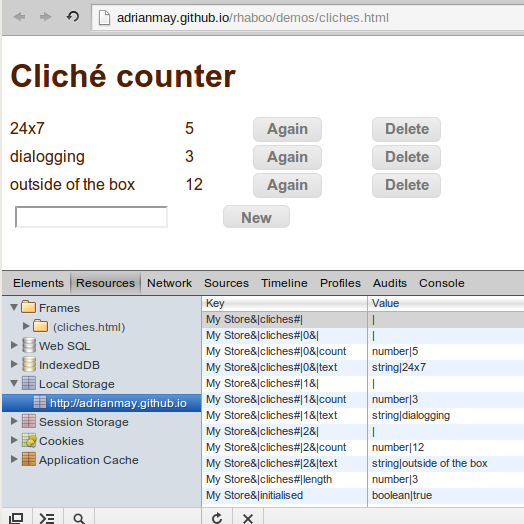
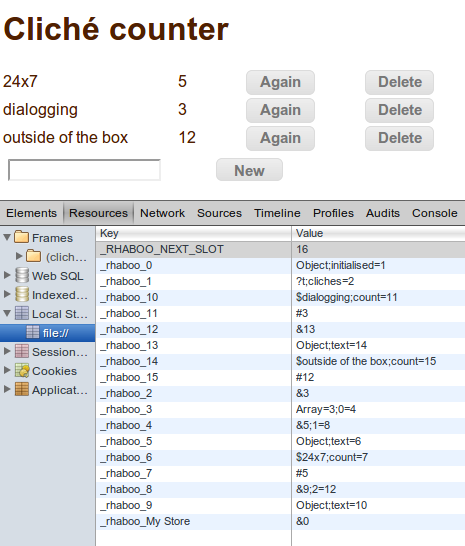
Updating web page

diff --git a/index.html b/index.html
@@ -164,7 +164,7 @@ function start() {
 &lt;script src='rhaboo.min.js'&gt;&lt;/script&gt;
 &lt;script&gt;
   <span style='color:green;'>//Open a persistent object called 'Some name'...</span>
-  <b>var store = new Rhaboo.Persistent('Some name');</b>
+  <b>var store = Rhaboo.persistent('Some name');</b>
   <span style='color:green;'>//If it has a property called 'count' then increment it, </span>
   <span style='color:green;'>//otherwise initialise it to 1...</span>
   <b>store.write('count', store.count ? store.count+1 : 1);</b>
@@ -176,7 +176,7 @@ function start() {
   &lt;p&gt;You loaded this page &lt;span id='count'&gt;&lt;/span&gt; times.
 &lt;/body&gt;
       </pre>
-      <p>So having made <code>store</code> with that constructor, it behaves just like a normal object except that wherever you'd normally write <code>store.key=val</code> you should write <code>store.write('key', val)</code> instead. Furthermore, any objects or arrays inside a persistent one also have that <code>write</code> function: 
+      <p>So having made <code>store</code> with that "constructor", it behaves just like a normal object except that wherever you'd normally write <code>store.key=val</code> you should write <code>store.write('key', val)</code> instead. Furthermore, any objects or arrays inside a persistent one also have that <code>write</code> function: 
       <br/>
       <br/>
       <pre>
@@ -233,7 +233,7 @@ store.somethingfancy.went[1].mow.write(1, 'lawn');
             <li>If you want to edit and build rhaboo then do this:<pre>
 git clone https://github.com/adrianmay/rhaboo.git
 cd rhaboo
-npm install grunt grunt-contrib-uglify grunt-browserify seedrandom ajon
+npm install grunt grunt-contrib-uglify grunt-browserify seedrandom ajon parunpar
 grunt    # be patient with this
             </pre></li>         
         </ol>
@@ -255,8 +255,8 @@ grunt    # be patient with this
           </tr>
           <tr><td colspan=4><hr/></td></tr>
           <tr>
-            <td><code>new Rhaboo.Persistent(name)</code></td>
-            <td>Constructor of root persistent object. Best performance is obtained if there's only one of these. The library looks for entries in localStorage corresponding with the passed name and loads any previously persisted data into the returned object. If no data is found, a mostly empty object is returned, mostly meaning that it just has a property called <code>_rhaboo</code> which is used for internal purposes.</td>
+            <td><code>Rhaboo.persistent(name)</code></td>
+            <td>Returns root persistent object. The library looks for entries in localStorage corresponding with the passed name and loads any previously persisted data into the returned object. If no data is found, a mostly empty object is returned, 'mostly' meaning that it just has a property called <code>_rhaboo</code> which is used for internal purposes.</td>
             <td>
               <dt><code>name:</code></dt><dd>Any text name that's not likely to be the same as any other.</dd> 
             </td>
@@ -265,8 +265,8 @@ grunt    # be patient with this
           <tr><td colspan=4><hr/></td></tr>
           <tr>
             <td><code>Object.prototype.write(key, val)</code></td>
-            <td><p>Persistent replacement for = operator. <code>store.write('key',val)</code> is equivalent to <code>store.key=val </code>except with persistence. Can be applied to objects inside the root persistent as well as the root persistent itself.
-              <p>If val is an object or array, bear in mind that these are passed by reference in javascript. The passed object will be injected with a property recording its home in localStorage. If you pass the same object to another write function aiming into a different persistent or different position within a persistent, then the old home will be overwritten. So don't. If you need a lot of cross references, use names or something.</td>
+            <td>Persistent replacement for = operator. <code>store.write('key',val)</code> is equivalent to <code>store.key=val </code>except with persistence. Can be applied to objects inside the root persistent as well as the root persistent itself.
+            </td>
             <td>
               <dt><code>this:</code></dt><dd>The object whose property we're adding or changing</dd> 
               <dt><code>key:</code></dt><dd>The property name within <code>this</code></dd> 
@@ -276,7 +276,7 @@ grunt    # be patient with this
           </tr>
           <tr><td colspan=4><hr/></td></tr>
           <tr>
-            <td><code>Object.prototype.kill(key)</code></td>
+            <td><code>Object.prototype.erase(key)</code></td>
             <td>Persistent equivalent of <code>delete object.key</code>. Completely removes a property. This is not the same as setting it to undefined. Don't use it on arrays. Use splice instead.</td>
             <td>
               <dt><code>this:</code></dt><dd>The object whose property we're adding or changing</dd> 
@@ -296,6 +296,7 @@ grunt    # be patient with this
           <tr>       <td>2.0.5</td>          <td>First anybody has heard of</td>          </tr>
           <tr>       <td>2.0.6</td>          <td>Code cleanup: Remove where from _rhaboo</td>          </tr>
           <tr>       <td>2.0.7</td>          <td>Dumped q and enq.js and just used setTimeout instead</td>          </tr>
+          <tr>       <td>3.0.0</td>          <td>Total rewrite aiming to restore constructors/prototypes and support multiple persistent refs to the same object.<br/>Huge speed boost. Breaks API.<br>New features not tested yet, but old tests succeeding.</td>          </tr>
         </table>
       </div>
       <div id='TESTS' style='display:none;'> 
@@ -308,62 +309,32 @@ grunt    # be patient with this
       <div id='INTERNALS' style='display:none;'>
         <h2>Dependencies</h2>
         <p>Rhaboo has 2 source files: <ul>
-          <li>core.js</li>
+          <li>core.js which depends on 'parunpar': another repo and npm module by the same author,</li>
           <li>arr.js which depends on core.js</li>
         </ul><p>There are no other dependencies.
         <p>There's also a huge test script generator which depends on another repo by the same author called ajon. This is a more accurate but less readable version of JSON. Rhaboo itself does not use ajon, only the test script generator does.
-        <h2>core.js</h2>
-        <h3>Use of local storage</h3>
+        <h2>parunpar</h2>
+        <p>This is documented in its own repo, but in a nutshell, it supports compact serialisation of known data in a known way. The core abstraction is a that of a parunpar: a function of boolean which returns an encoder or corresponding decoder for true or false respectively. There are combinators that build complex parunpars out of simple ones.
+        <h2>Use of localStorage</h2>
+        <p>Rhaboo uses parunpar to define the linear encoding used in individual localStorage entries. These come in two types corresponding to objects and properties. They have a left hand side and may have a right hand side separated from the LHS by a semicolon. For objects, the LHS records the constructor and the length if defined for the object. For properties, the LHS defines the type and a string representation of the value. 
+        <p>The RHS is the same in both cases: it implements a linked list of properies where the link contains both the name and the localStorage location of the next property. For objects, this points to the first property, and subsequent property entries point to the next one. This peculiar habit of putting the property name in the link to it rather than its own entry has neither advantages nor disadvantages.
+        <p>If a property is an object rather than a basic type, then its entry will be a reference (this being a sixth basic type in rhaboo after the three usual ones, null and undefined) to a localStorage location where the object itself is stored using an object entry. 
+        <p>Root persistent entries are just like any other object: the object is represented independently of any name or reference to it. The name passed to Rhaboo.persistent resolves to a localStorage entry in which a <i>reference</i> to the object is found, not the object itself. This extra level of indirection is necessary to support multiple persistent references to the same object.
         <p>Here's a peep into the localStorage usage of the cliches demo:
         <p><center><img src='peep.png'></center></img>
-        <p>Points to notice include:<ul>
-          <li>The vertical bars make parsing easier with JS's String.split function.</li>
-          <li>A # suffix indicates an array while an &amp; indicates any other object.</li>
-          <li>After a # there's usually a number, which is an index within the previously named array.</li>
-          <li>The value of the entry provides the type and the value as a string</li>
-          <li>When the value contains only a |, the purpose is to declare an object or array. This isn't necessary if we can rely on finding a child of the object or array (which would declare it implicitly,) but some are empty.</li>
-          <li>The order in which these entries are retrieved doesn't matter because we can create parent paths on demand.</li>
-          <li>Lengths of arrays are stored explicitly so we can recreate trailing <code>undefined</code>s.</li>
-          <li>The key notation is embodied in the function <code>Object.prototype._rhaboo_childKey</code></li>
-          <li>There's no concept of a reference here, so the user should give the persistent a structure where each datum is represented exactly once. Any needed cross references should be achieved wth some naming system.</li>   
-        </ul>
-        <h3>Type stuff</h3>
-        <p>Rhaboo often wants to know if something is an array, another object, or a leaf. To this end there are some simple functions near the start of core.js. Around the same place is the treatment of <code>hasOwnProperty</code> so it doesn't return true for <code>_rhaboo</code> (that's where this library keeps its per-object data,) which helps best-practice iterations of objects and arrays behave sensibly. 
-        <h3>Backgrounding</h3>
-        <p>Rhaboo builds a script of all the localStorage operations required to persist a given change, and enqueues a single <code>setTimeout</code> job to perform the whole script. For instance, in <code>_rhaboo_persist</code>, a blank script called <code>ss</code> is declared and populated by passing it to functions in <code>forgetters</code> and <code>stashers</code>. Those functions use <code>intend</code> to push instructions onto the script, so <code>intend</code> embodies the backgrounding policy. The populated script is passed to <code>procrastinate</code> which uses <code>setTimeout</code> to schedule the job. The work inside the job that <code>procrastinate</code> enqueues is to run thrugh the script and apply each step in turn to localStorage.
-        <h3>The central functions</h3>
-        <pre>
- 
- 
-                                                     
-              _rhaboo_unpersist          ______        
-             /                 \        /      \            
-            /                   \      |     _rhaboo_forget 
-           /                     \     V    /
-       kill                       forgetters --[leaf]
-                                 /          \        \
-                                /            [leaf] --\
-                               /                       localStorage    
-               _rhaboo_persist           ______           
-             /                 \        /      \       
-            /                   \      |     _rhaboo_stash
-           /                     \     V    /                
-      write                        stashers  --[leaf]   
-                                            \        \  
-                                             [leaf] --\ 
-                                                       localStorage
+        <p>At the top we see how localStorage keys are generated. There is no attempt to reuse freed numbers. At the bottom we see a reference to slot 0 (i.e. localStorage entry "_rhaboo_0") under a name derived from the paramter to Rhaboo.persistent. The referenced object is constructed with the Object function and has no meaningful length. Its first property is called 'initialised' and lives in slot 1 where we can see the type (? means boolean) and the value (t means true for booleans). The next property is called 'cliches' and lives in slot 2 where we see a reference to slot 3 in which an object constructed with 'Array' with a length of 3 can be found. It has a property called '0' which lives in slot 4 which contains yet another reference, etc, etc.
+        <p>The property LHSs are seen to use a single character for type encoding as follows: &amp;:reference, ~:null, _:undefined, ?:boolean, #:number, $:string. Parunpar takes care of escaping separator characters.
+        <h2>Backgrounding</h2>
+        <p>Rhaboo does not perform localStorage operations directly, rather, it builds a script of all the localStorage operations required to persist a given change, and enqueues a single <code>setTimeout</code> job to perform the whole script. A script entry includes both the name of a localStorage function like 'setEntry' and the paramters to be passed to it as fully evaluated strings. Executing the script is thus a simple matter of <code>apply</code>ing each item in turn with localStorage as <code>this</code>. Browsing through the functions in rhaboo, one notices functions that take a script as a paramter and add entries to it, and those that declare an empty script, pass it to several such functions in turn, then execute the whole script.
+        <h2>Kids</h2>
+        <p>A persistent object needs to store some information in memory about how it is persisted. This is all in a property called _rhaboo in each persistent object.
+        <p>The localStorage entries for the properties of a given object hang together in a singly linked list. This is adequate for restoration which occurs in one go at an early stage. However, for updates during run time, we'll often need the predecessor of a given property (e.g. when deleting it) and should therefore have a doubly linked list for decent performance. This doubly linked list is called 'kids' and is a property of _rhaboo. The main purpose of each item in the list is to store the localStorage slot. Within the scope of a given object, there are functions to append a new item to the end of the list mapping a certian property name to a certain slot, and to remove the item for a property name from the list. 
+        <p>_rhaboo has a slot number with the same property name as a kid entry and pointers to the head and tail of kids called <code>next</code> and <code>prev r</code>espectively. These facts mean that _rhaboo can be treated like a list entry for many purposes.
 
-|           |                   |           | 
-| Note old  | Calc child key    | Switch    | Write script steps and for objects: 
-|  value    | Build localStorage|  by type  |   Note localStorage key in object                                                    
-|           |  script           |           |   and recurse
 
-          </pre>
-        <p>The heart of rhaboo is a pair of recursive processes: one for remembering things and the other for forgetting them. These are embodied by <code>stashers[]</code> and <code>Object.prototype._rhaboo_stash()</code> on the one hand and <code>forgetters[]</code> and <code>Object.prototype._rhaboo_forget()</code> on the other. <code>stashers[]</code> and <code>forgetters[]</code> are maps from the type of the thing to remember or forget to a function for doing it. For leaf types, it's a direct instruction to localStorage; for objects, it's a call to <code>_rhaboo_stash()</code> or <code>_rhaboo_forget()</code> which deal with the per-se localStorage entry for the object and its length entry, then recurse back into <code>stashers[]</code> or <code>forgetters[]</code> for each of its properties. 
-        <p><code>stashers[]</code> and <code>forgetters[]</code> are the only callers of <code>_rhaboo_stash()</code> and <code>_rhaboo_forget()</code> respectively, and are themselves originally called by <code>_rhaboo_persist()</code> and <code>_rhaboo_unpersist()</code>. <code>_rhaboo_unpersist()</code> only calls <code>forgetters[]</code> but <code>_rhaboo_persist()</code> calls both. Just like <code>write()</code> and <code>kill()</code>, these functions are called with <code>this</code> equal to the parent of the property being changed. Unless <code>this</code> is marked as persistent by having the <code>_rhaboo</code> property, they do nothing. If <code>_rhaboo</code> is present, they figure out a localStorage key for the child property and use <code>forgetters[]</code> to erase any old localStorage entries and perhaps also <code>stashers[]</code> to create new ones. 
-        <p>The reader might have remarked that in order to forget a complex object from localStorage, that object still has to exist in memory so we know what was in it. (One could alternatively iterate the whole of localStorage and look for matching keys but that would be slower on large data sets.) On the other hand, we promised to return the UI thread quickly. The required procedure, then, is to make a note of the old value, assign the new one to the object in memory, queue a job to forget the old and remember the new values, and then return the UI thread. That is exactly what is written in <code>write()</code> and <code>kill(),</code> and they do the queueing using <code>_rhaboo_persist()</code> and <code>_rhaboo_unpersist()</code>.
-        <h3>Constructor and restoration</h3>
-        <p>The constructor <code>new Rhaboo.Persistent()</code> merely calls <code>Object.prototype._rhaboo_restore()</code> with the passed name. The job here is to run through localStorage in a random order, filter on keys that match the passed name, create any parents implied by early parts of the key, recreate the types and values of leaves from the values of localStorage entries, and populate any data used by rhaboo itself.
+        <h2>TBC</h2>
+
+
         <h2>arr.js</h2>
         <p>This is where the 7 array operations: <code>push</code>, <code>pop</code>, <code>shift</code>, <code>unshift</code>, <code>splice</code>, <code>sort</code> and <code>reverse</code> (plus maybe <code>fill</code> if it's available) are made persistent. The original functions are stashed and used by the new persistent ones. 
         <p>In the worst case scenario that the array is totally rewritten, e.g. by a <code>sort</code>, our strategy is to make a complete copy of the old array, call the original function, then do something like <code>_rhaboo_persist()</code> which forgets the old version and remembers the new. This is rather slow.
@@ -419,8 +390,7 @@ var persistents = {
         <dd><p>Proper performance tests are in the pipeline, but it must be very fast because localStorage is a simple mechanism and it's being used in a very efficient way. However, those array functions like reverse and sort which change the whole thing are a bit slow right now.</dd>
         <dt>What can't it do?</dt>
         <dd>
-        <p>Function-valued and regex-valued properties of objects are ignored. If you want regexes just ask. You can add an object with a funny prototype to a persistent and it'll behave ok during this run, but the prototype won't be restored on the next run.
-        <p>Don't put any object into two persistent places. Each persistent object has one property recording where in localStorage it lives. If you put it into another persistent place this will be overwritten. If your app needs a lot of cross-referencing among persistent objects, use their names or the like.
+        <p>Function-valued and regex-valued properties of objects are ignored. If you want regexes just ask. 
         <p>There's no protection for the case that the user closes the window while background persistence jobs are still going on. For most programs this is highly unlikely because you won't be firing off huge persistence jobs, but if it is a concern, you can roll your own journalling checks. For instance, you'll gradually write the new version of the sub-object in a temporary place, atomically write that it's the important one, and then gradually delete the old one. The UI thread will have returned to responsiveness much earlier than this. If there's demand for rhaboo to do this kind of thing itself, then it'll be developed.</dd>
         <dt>What can it do that most libraries can't?</dt>
         <dd><p>Most libraries either force you to learn a new storage paradigm or limit themselves to single-level maps like what localStorage already gives you. 
@@ -442,14 +412,13 @@ var persistents = {
 'function (y) {return x+y}'
         </pre>
         <p>Supporting the persistence of objects would thus impose subtle bugs on anybody who tried to use the feature and it's probably better to recommend only storing objects that are all data. In simple cases though, it will soon be possible to inherit functions from a prototype into a data-only persistent.</dd>
-        <dt><p>To what extent will it ever restore the prototype and/or constructor?</dt>
+        <dt><p>To what extent does it restore the prototype and/or constructor?</dt>
         <dd>
-        <p>Right now, restored objects can only be Objects or Arrays but an update is planned for the immediate future as follows:
         <p>If you do Crockford style without a valid <code>.constructor</code> pointer, then there's no chance. The reason is that rhaboo knows neither whether nor where there might be a reference to your persistent object's prototype. It might only have been defined on the fly in the call to <code>Object.create({ like: "this" })</code>. Rhaboo would therefore have to store the prototype, but with functions not working properly that would be pointless (functions being the main thing that one finds in a prototype.)
         <p>If I asked you to put a reference to the prototype somewhere in the global scope where rhaboo could find it, and then to write something in the object to say which reference to use, then how about this for a standard: the object should contain or inherit a property called <code>constructor</code> which refers to a global object (let's call it the "constructor") which contains a reference to your prototype called <code>prototype</code>. The advantage of this standard is that people have heard of it before. Furthermore, if, during restoration, the constructor turns out to be a function then rhaboo will use it for creating your restored object. This may involve some wasted effort setting up default values of properties that will be overwritten whilst restoring the details of the object, but that's not a huge problem. It is nevertheless worthwhile to use the constructor function because the initialisation in the constructor might affect things elsewhere in the program. Another good reason is for inserting functions (which rhaboo can't help with.)
         <p>The above assumes that the prototype is a static thing that rhaboo will find in its one and only proper state, but OTOH it might contain class-scoped a.k.a. static properties which need to be restored. In that case the prototype would have to live in the persistent store. With the above features in place though, this would go wrong because <code>.constructor</code> of a prototype is that of the objects of the class it represents, not of the prototype itself. The restoration mechanism would see that value of <code>.constructor</code> and try to make an instance of the class where the prototype should be. Together with the difficulties of persisting functions, the wise approach is that all prototypes should be immutable and refer to some external persistent object for class-scoped mutable data. 
-        <p>Under this system, if you program Crockford-style and completely ignore <code>prototype.constructor</code>, the latter will usually point to <code>Object</code> and that's what you'll get back, no matter what prototype you passed to <code>Object.create</code>. To fix that without forcing you into the classical model, rhaboo could detect that the constructor is not a function and interpret it as your prototype instead. But this would not be any easier for you than just making an empty function with a prototype property. You'd still have to write a line to set the constructor of your object (or something in its prototype chain) to something other than its default. 
-        <p>The conclusion is that only classical inheritance can be supported. Constructor functions must have names and be found under that name in the global object. (Earlier incarnations of Crockford- style involved anonymous or temporary constructor functions but this would fail too.) If multiple levels of inheritance are being used then a line like <code>Foo.prototype.constructor=Foo</code> may be required. Prototypes may not be persisted like ordinary objects. Constructor parameters won't be supplied during restoration, but if the constructor doesn't barf about not receiving paramters, then the subsequent restoration of properties might do whatever the constructor wanted those parameters for.
+        <p>Under this system, if you program Crockford style and completely ignore <code>prototype.constructor</code>, the latter will usually point to <code>Object</code> and that's what you'll get back, no matter what prototype you passed to <code>Object.create</code>. To fix that without forcing you into the classical model, rhaboo could detect that the constructor is not a function and interpret it as your prototype instead. But this would not be any easier for you than just making an empty function with a prototype property. You'd still have to write a line to set the constructor of your object (or something in its prototype chain) to something other than its default. 
+        <p>The conclusion is that only classical inheritance can be supported. Constructor functions must have names and be found under that name in the global object. (Earlier incarnations of Crockford style involved anonymous or temporary constructor functions but this would fail too.) If multiple levels of inheritance are being used then a line like <code>Foo.prototype.constructor=Foo</code> may be required. Prototypes may not be persisted like ordinary objects. Constructor parameters won't be supplied during restoration, but if the constructor doesn't barf about not receiving paramters, then the subsequent restoration of properties might do whatever the constructor wanted those parameters for. 
         <p>And that, finally, really is all you need to know.
         </dd>
         <dt></dt>
